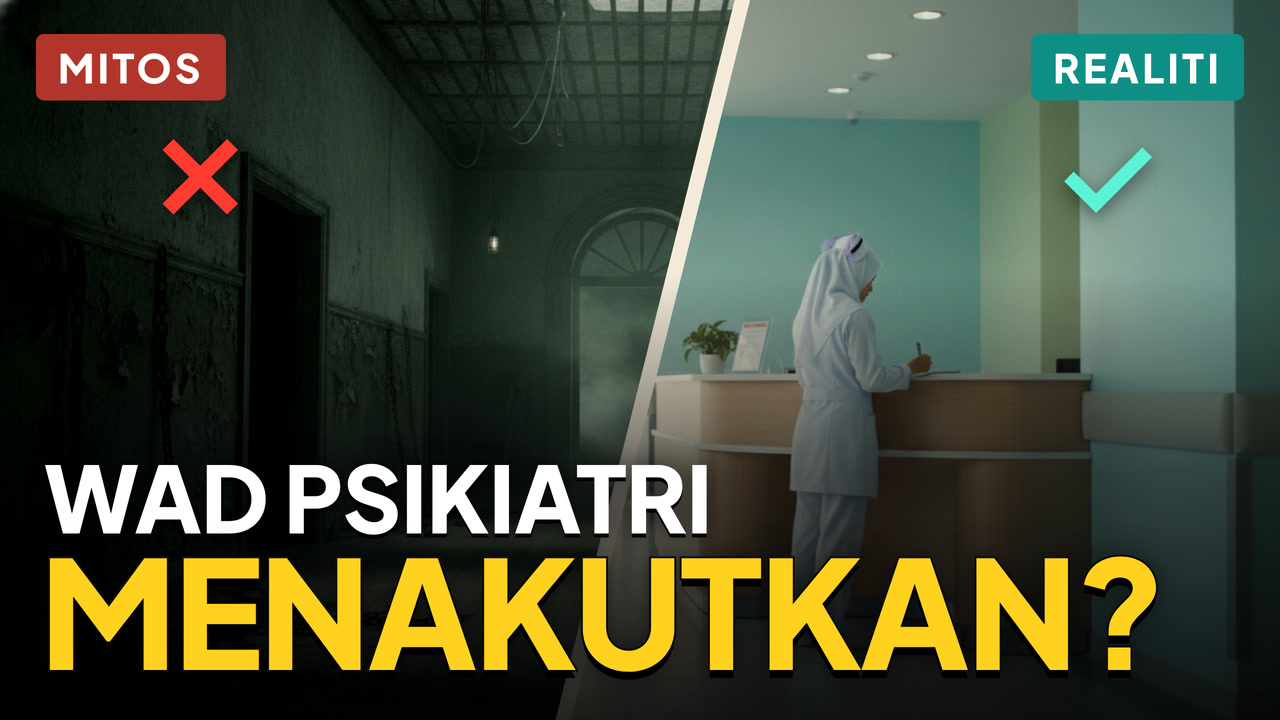
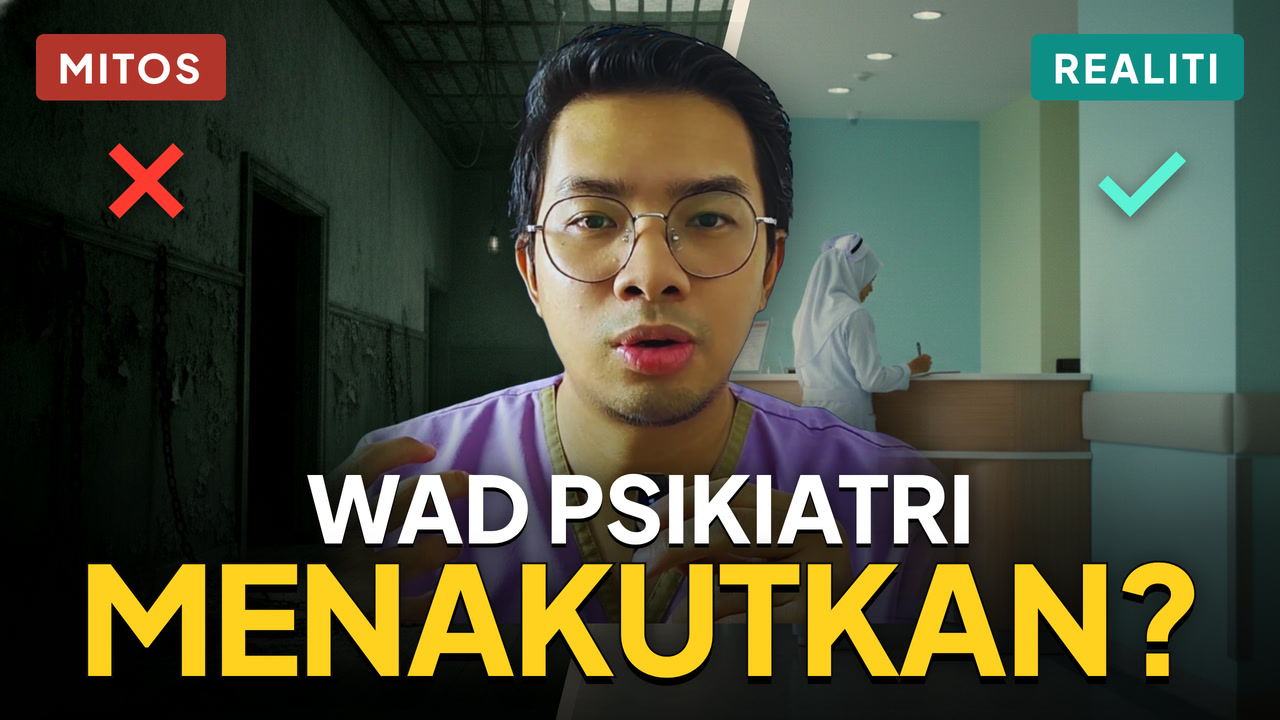
Wad psikiatri thumbnails: add Dr. Azren cutout
Claude-Session: https://claude.ai/code/session_017ais3Ebx65Fbb2rY4e1Lkj

diff --git a/videos/wad-psikiatri-sejarah/youtube/thumb_a.html b/videos/wad-psikiatri-sejarah/youtube/thumb_a.html
@@ -7,18 +7,20 @@ html,body{margin:0;width:1280px;height:720px;overflow:hidden;background:#000}
 .l{background-image:url("../doc/public/img/31_horror_set.jpg");filter:saturate(.85) brightness(.9) contrast(1.2);clip-path:polygon(0 0,58% 0,44% 100%,0 100%);background-position:30% 50%}
 .r{background-image:url("../doc/public/img/23_modern_ward.jpg");filter:brightness(1.05) saturate(1.1);clip-path:polygon(58% 0,100% 0,100% 100%,44% 100%);background-position:70% 50%}
 .cut{position:absolute;inset:0;background:#F4EBD8;clip-path:polygon(57.4% 0,58.6% 0,44.6% 100%,43.4% 100%)}
-.shade{position:absolute;left:0;right:0;bottom:0;height:62%;background:linear-gradient(180deg,rgba(0,0,0,0) 0%,rgba(0,0,0,.55) 45%,rgba(0,0,0,.85) 100%)}
+.shade{position:absolute;left:0;right:0;bottom:0;height:48%;background:linear-gradient(180deg,rgba(0,0,0,0) 0%,rgba(0,0,0,.55) 45%,rgba(0,0,0,.85) 100%)}
 .tag{position:absolute;top:34px;font-family:"PJS";font-weight:800;font-size:40px;letter-spacing:.08em;color:#fff;padding:8px 22px;border-radius:8px}
 .t1{left:36px;background:#B3352B}.t2{right:36px;background:#0E8F86}
-.x{position:absolute;left:150px;top:96px;font-family:"PJS";font-weight:800;font-size:120px;color:#ff3b30;text-shadow:0 6px 18px rgba(0,0,0,.6)}
-.ok{position:absolute;right:120px;top:96px;font-family:"PJS";font-weight:800;font-size:120px;color:#5CF2D6;text-shadow:0 6px 18px rgba(0,0,0,.5)}
-.h1{position:absolute;left:44px;bottom:178px;font-family:"PJS";font-weight:800;font-size:92px;line-height:1;color:#fff;letter-spacing:-.01em;
+.x{position:absolute;left:96px;top:100px;font-family:"PJS";font-weight:800;font-size:120px;color:#ff3b30;text-shadow:0 6px 18px rgba(0,0,0,.6)}
+.ok{position:absolute;right:86px;top:100px;font-family:"PJS";font-weight:800;font-size:120px;color:#5CF2D6;text-shadow:0 6px 18px rgba(0,0,0,.5)}
+.h1{position:absolute;left:0;right:0;text-align:center;bottom:168px;font-family:"PJS";font-weight:800;font-size:92px;line-height:1;color:#fff;letter-spacing:-.01em;
   text-shadow:0 4px 0 #000,0 0 24px rgba(0,0,0,.7)}
-.h2{position:absolute;left:40px;bottom:36px;font-family:"PJS";font-weight:800;font-size:150px;line-height:1;color:#FFD21F;letter-spacing:-.02em;
+.h2{position:absolute;left:0;right:0;text-align:center;bottom:30px;font-family:"PJS";font-weight:800;font-size:150px;line-height:1;color:#FFD21F;letter-spacing:-.02em;
   -webkit-text-stroke:4px #111;paint-order:stroke fill;text-shadow:0 8px 0 #000,0 0 30px rgba(0,0,0,.6)}
+.dr{position:absolute;left:320px;top:22px;width:640px;-webkit-mask-image:linear-gradient(90deg,transparent 0,#000 18%,#000 84%,transparent 100%);mask-image:linear-gradient(90deg,transparent 0,#000 18%,#000 84%,transparent 100%);filter:drop-shadow(0 10px 30px rgba(0,0,0,.55))}
+.dr img{width:100%;display:block}
 .br{position:absolute;right:30px;bottom:30px;font-family:"PJS";font-weight:700;font-size:22px;letter-spacing:.3em;color:#F4EBD8;opacity:.9}
 </style></head><body>
-<div class="l"></div><div class="r"></div><div class="cut"></div><div class="shade"></div>
+<div class="l"></div><div class="r"></div><div class="cut"></div><div class="dr"><img src="dr_azren_cutout.png"/></div><div class="shade"></div>
 <div class="tag t1">MITOS</div><div class="tag t2">REALITI</div>
 <div class="x">✕</div><div class="ok">✓</div>
 <div class="h1">WAD PSIKIATRI</div><div class="h2">MENAKUTKAN?</div>

diff --git a/videos/wad-psikiatri-sejarah/youtube/thumb_b.html b/videos/wad-psikiatri-sejarah/youtube/thumb_b.html
@@ -7,10 +7,14 @@ html,body{margin:0;width:1280px;height:720px;overflow:hidden;background:#000}
 .vg{position:absolute;inset:0;background:linear-gradient(90deg,rgba(5,10,18,.92) 0%,rgba(5,10,18,.75) 42%,rgba(5,10,18,.1) 75%),radial-gradient(ellipse at 70% 50%,rgba(0,0,0,0) 40%,rgba(0,0,0,.5) 100%)}
 .yr{position:absolute;left:48px;top:40px;font-family:"Cinzel";font-weight:600;font-size:150px;line-height:1;color:#D9A441;text-shadow:0 6px 20px rgba(0,0,0,.7)}
 .arr{position:absolute;left:56px;top:196px;font-family:"PJS";font-weight:700;font-size:34px;color:#F4EBD8;letter-spacing:.12em}
-.h1{position:absolute;left:48px;top:290px;font-family:"PJS";font-weight:800;font-size:88px;line-height:1.02;color:#fff;text-shadow:0 4px 0 #000,0 0 24px rgba(0,0,0,.8)}
+.h1{position:absolute;left:48px;top:280px;font-family:"PJS";font-weight:800;font-size:76px;line-height:1.02;color:#fff;text-shadow:0 4px 0 #000,0 0 24px rgba(0,0,0,.8)}
 .h2{position:absolute;left:44px;bottom:46px;font-family:"PJS";font-weight:800;font-size:112px;line-height:1;color:#FFD21F;-webkit-text-stroke:4px #111;paint-order:stroke fill;text-shadow:0 7px 0 #000}
+.dr{position:absolute;left:600px;top:60px;width:700px;-webkit-mask-image:linear-gradient(90deg,transparent 0,#000 20%);mask-image:linear-gradient(90deg,transparent 0,#000 20%);filter:drop-shadow(0 10px 30px rgba(0,0,0,.6))}
+.dr img{width:100%;display:block}
+.bshade{position:absolute;left:0;right:0;bottom:0;height:35%;background:linear-gradient(180deg,rgba(0,0,0,0),rgba(0,0,0,.75))}
 </style></head><body>
 <div class="bg"></div><div class="vg"></div>
+<div class="dr"><img src="dr_azren_cutout.png"/></div><div class="bshade"></div>
 <div class="yr">1911</div><div class="arr">→ HARI INI</div>
 <div class="h1">WAD PSIKIATRI<br/>MALAYSIA</div>
 <div class="h2">BETUL KE SERAM?</div>

diff --git a/videos/wad-psikiatri-sejarah/youtube/youtube_package.md b/videos/wad-psikiatri-sejarah/youtube/youtube_package.md
@@ -2,8 +2,9 @@
 
 ## Fail
 - Video: `final_1080_youtube.mp4` (1080p, 6:16)
-- Thumbnail A, recommended: `youtube/thumbnail_a.jpg`, MITOS vs REALITI, "WAD PSIKIATRI MENAKUTKAN?"
-- Thumbnail B: `youtube/thumbnail_b.jpg`, "1911 → HARI INI · BETUL KE SERAM?"
+- Thumbnail A, recommended: `youtube/thumbnail_a.jpg`, Dr. Azren between MITOS and REALITI, "WAD PSIKIATRI MENAKUTKAN?"
+- Thumbnail B: `youtube/thumbnail_b.jpg`, Dr. Azren on the right, "1911 → HARI INI · BETUL KE SERAM?"
+- The cutout `youtube/dr_azren_cutout.png` was colour-keyed from the flat navy background of the photo supplied by the user
 - Sari kata: `sejarah-wad-psikiatri_ms.srt` (Bahasa Melayu)
 
 ## Tajuk
